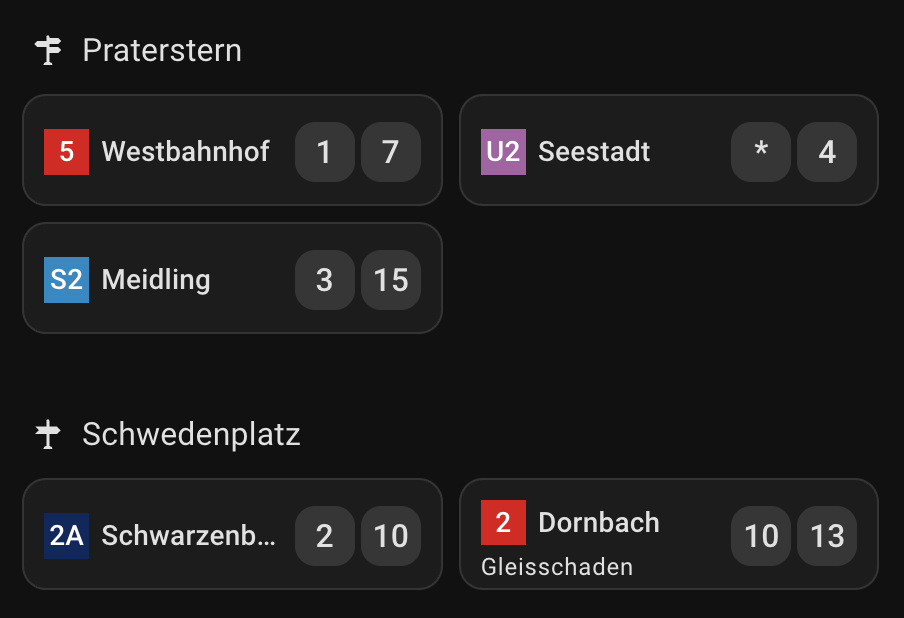
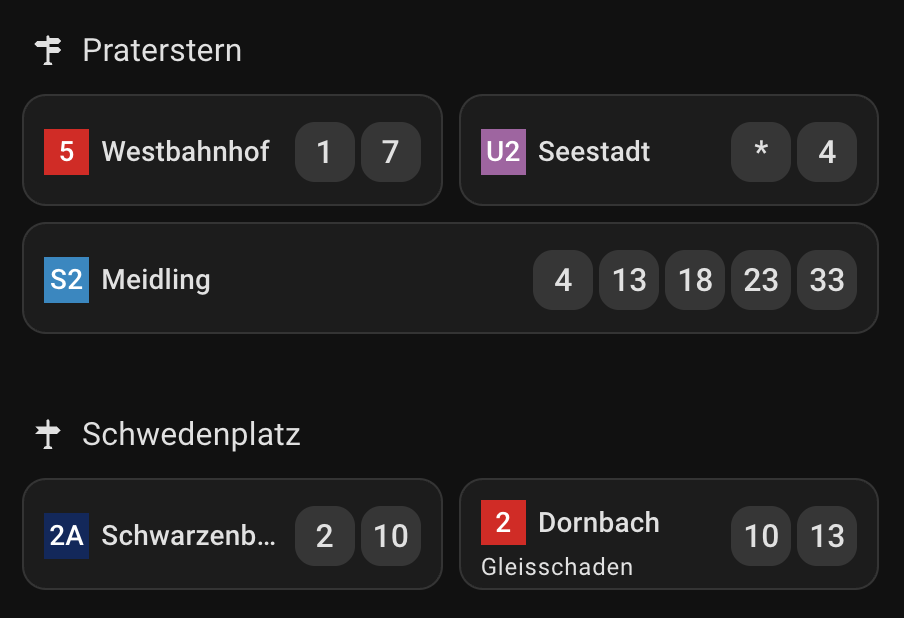
Updated screenshots displaying larger cards

Changed region(s): [[0.4956, 0.3997, 0.9602, 0.5534], [0.3097, 0.3997, 0.4646, 0.5227], [0.4956, 0.3382, 0.9292, 0.3689]]

diff --git a/Readme.md b/Readme.md
@@ -4,11 +4,12 @@ A minimalistic real-time public transport dashboard for Vienna's public transpor
 
 ## Screenshots
 
-### Light Theme
-![Light Theme Dashboard](Screenshot-UI-Light.png)
+## Screenshots
 
-### Dark Theme  
-![Dark Theme Dashboard](Screenshot-UI-Dark.png)
+<p float="left">
+<img src="Screenshot-UI-Light.png" width=49% height=49%/>
+<img src="Screenshot-UI-Dark.png" width=49% height=49%/>
+</p>
 
 ## Features
 
@@ -111,6 +112,7 @@ line: "5"
 color: "#c00a09"
 publish_visibility: true  # Required for at least one card to enable intelligent data fetching
 max_departures: 2
+column_width: 6
 ```
 
 ## Configuration Options
